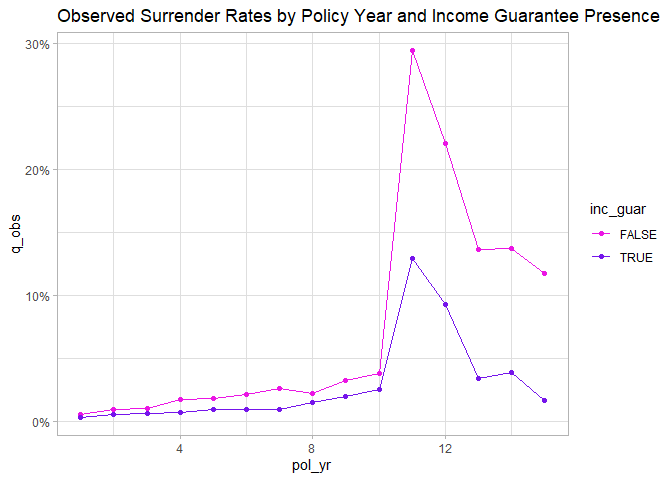
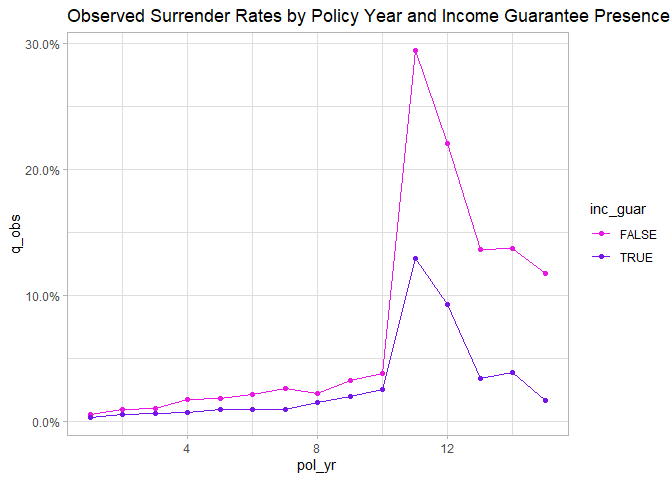
first draft of autoplot method for exp_df objects

diff --git a/README.md b/README.md
@@ -165,6 +165,18 @@ exp_res
 #> # ... with 20 more rows
 ```
 
+``` r
+library(ggplot2)
+
+.colors <- c("#eb15e4", "#7515eb")
+theme_set(theme_light())
+
+exp_res |> 
+  autoplot() + 
+  scale_color_manual(values = .colors) + 
+  labs(title = "Observed Surrender Rates by Policy Year and Income Guarantee Presence")
+```
+
 <img src="man/figures/README-unnamed-chunk-8-1.png" width="100%" />
 
 To derive actual-to-expected rates, attach one or more columns of
